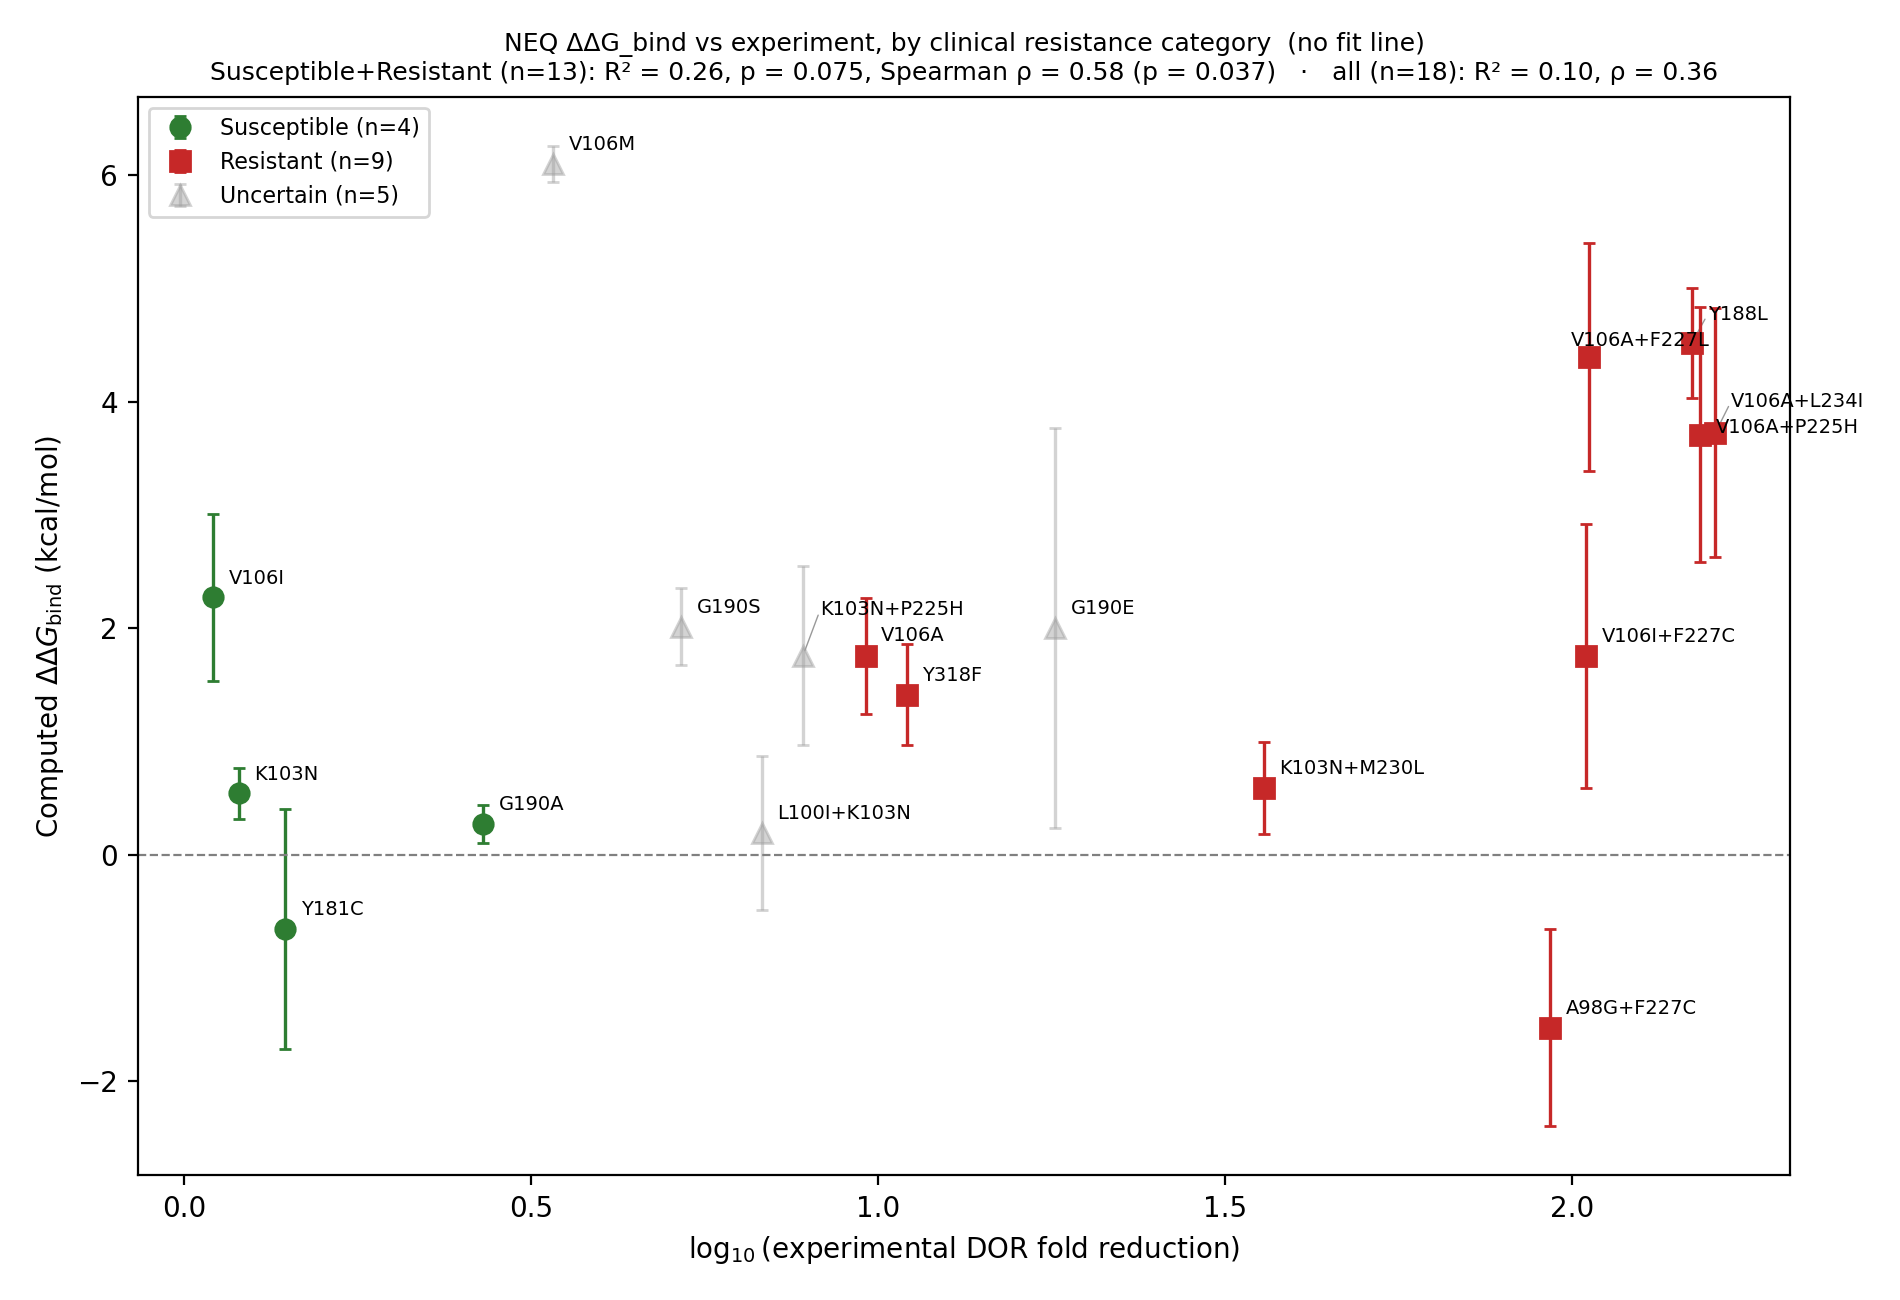
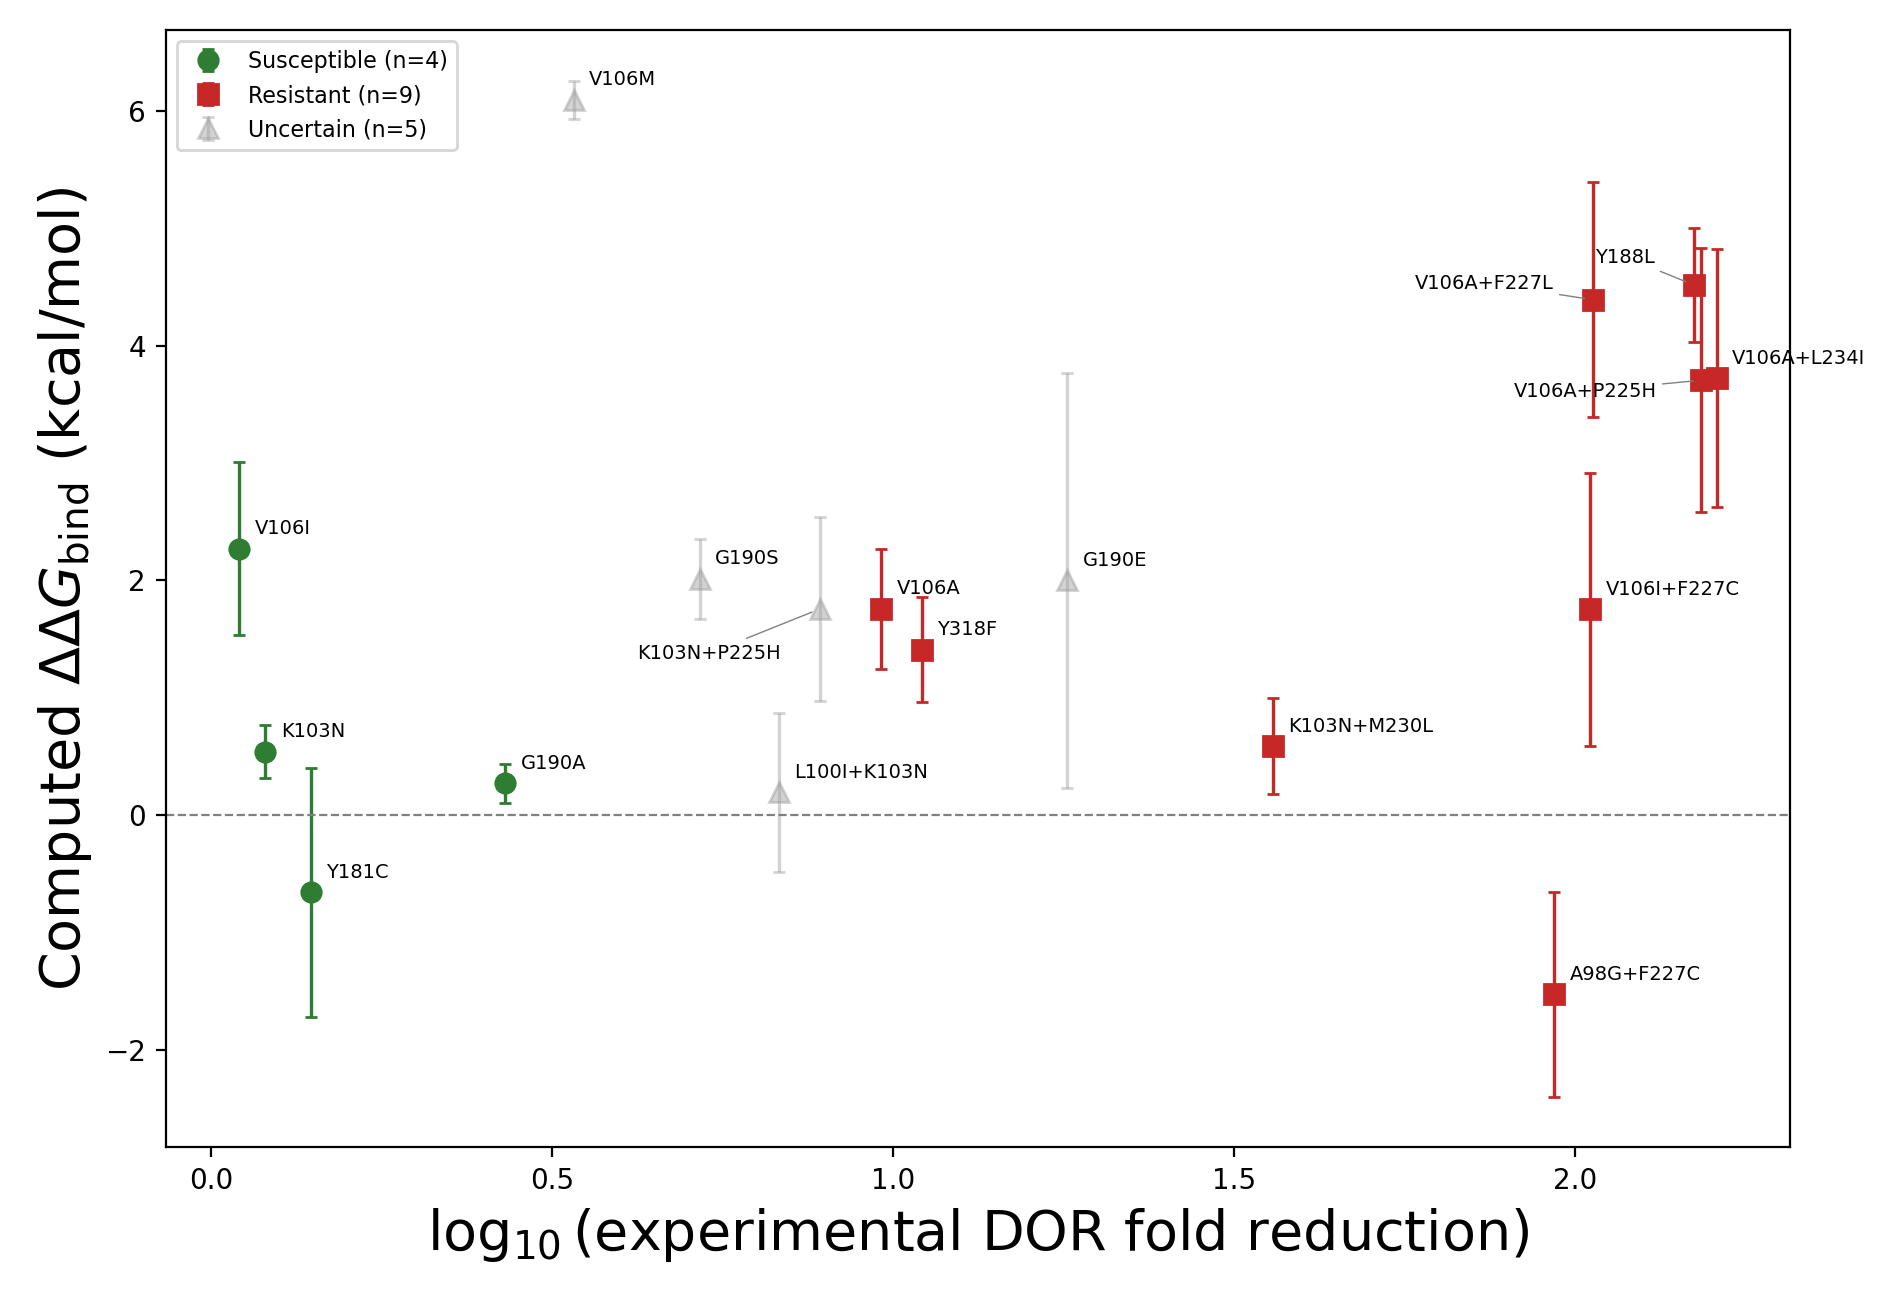
fep_pmx: category panel - drop title, 2x axis labels, hand-place four labels
Title removed: the statistics belong in the figure caption and are already in
panel_category_subset_stats.csv. Axis labels at 20pt (2x the matplotlib default).

LABEL_OVERRIDES places K103N+P225H (left and down, clear of G190S), V106A+F227L,
Y188L and V106A+P225H to the left with leader lines; those four are withheld from
_repel_labels so the automatic placement does not fight the manual offsets.

diff --git a/src/analysis/cli/plot_panel_by_resistance_category.py b/src/analysis/cli/plot_panel_by_resistance_category.py
@@ -56,6 +56,17 @@ FEP_ROOT = Path("results/analysis/fep_pmx")
 COLORS = {"Susceptible": "#2E7D32", "Resistant": "#C62828", "Uncertain": "#9E9E9E"}
 MARKERS = {"Susceptible": "o", "Resistant": "s", "Uncertain": "^"}
 
+# Genotypes whose label the automatic repel places poorly. Offsets are in points
+# relative to the marker; these are annotated by hand (right-aligned, with a leader)
+# and withheld from _repel_labels so it does not fight the manual placement.
+LABEL_OVERRIDES = {
+    "K103N+P225H": (-14, -16),   # left and down, clear of G190S
+    "V106A+F227L": (-14, 6),
+    "Y188L": (-14, 10),
+    "V106A+P225H": (-16, -4),
+}
+AXIS_LABEL_FONTSIZE = 20  # 2x the matplotlib default
+
 
 def _load_repel():
     """Import ``_repel_labels`` from scripts/fep_pmx/combine_neq (not a package)."""
@@ -175,25 +186,33 @@ def main(argv: list[str] | None = None) -> int:
                     label=f"{cat} (n={len(sub)})")
     ax.axhline(0.0, color="grey", linestyle="--", linewidth=0.8)
 
+    auto = [r for r in rows if r["genotype"] not in LABEL_OVERRIDES]
     _repel_labels(
         ax, fig,
-        [math.log10(r["fold"]) for r in rows],
-        [r["ddg"] for r in rows],
-        [r["genotype"] for r in rows],
+        [math.log10(r["fold"]) for r in auto],
+        [r["ddg"] for r in auto],
+        [r["genotype"] for r in auto],
         fontsize=7,
     )
+    for r in rows:
+        off = LABEL_OVERRIDES.get(r["genotype"])
+        if off is None:
+            continue
+        ax.annotate(
+            r["genotype"],
+            xy=(math.log10(r["fold"]), r["ddg"]),
+            xytext=off, textcoords="offset points",
+            fontsize=7, ha="right", va="center",
+            arrowprops=dict(arrowstyle="-", linewidth=0.5, color="0.5",
+                            shrinkA=0.0, shrinkB=3.0),
+        )
 
-    ks = next(s for s in stats_rows if s["subset"] == "susceptible_plus_resistant")
-    al = next(s for s in stats_rows if s["subset"] == "all")
-    ax.set_title(
-        "NEQ ΔΔG_bind vs experiment, by clinical resistance category  (no fit line)\n"
-        f"Susceptible+Resistant (n={ks['n']}): R² = {ks['r2']:.2f}, p = {ks['p']:.3f}, "
-        f"Spearman ρ = {ks['spearman_rho']:.2f} (p = {ks['spearman_p']:.3f})   ·   "
-        f"all (n={al['n']}): R² = {al['r2']:.2f}, ρ = {al['spearman_rho']:.2f}",
-        fontsize=9,
-    )
-    ax.set_xlabel(r"$\log_{10}$(experimental DOR fold reduction)")
-    ax.set_ylabel(r"Computed $\Delta\Delta G_{\mathrm{bind}}$ (kcal/mol)")
+    # No title: the statistics live in panel_category_subset_stats.csv and belong in
+    # the figure caption, not baked into the image.
+    ax.set_xlabel(r"$\log_{10}$(experimental DOR fold reduction)",
+                  fontsize=AXIS_LABEL_FONTSIZE)
+    ax.set_ylabel(r"Computed $\Delta\Delta G_{\mathrm{bind}}$ (kcal/mol)",
+                  fontsize=AXIS_LABEL_FONTSIZE)
     ax.legend(loc="upper left", fontsize=8, frameon=True)
     fig.tight_layout()
     fig.savefig(args.out_png, dpi=200)
